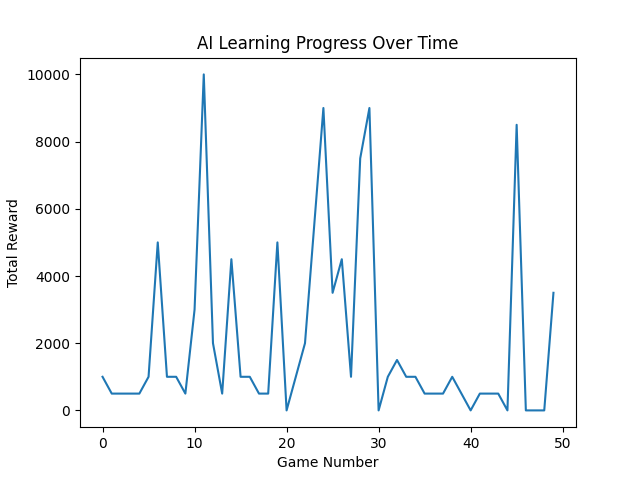
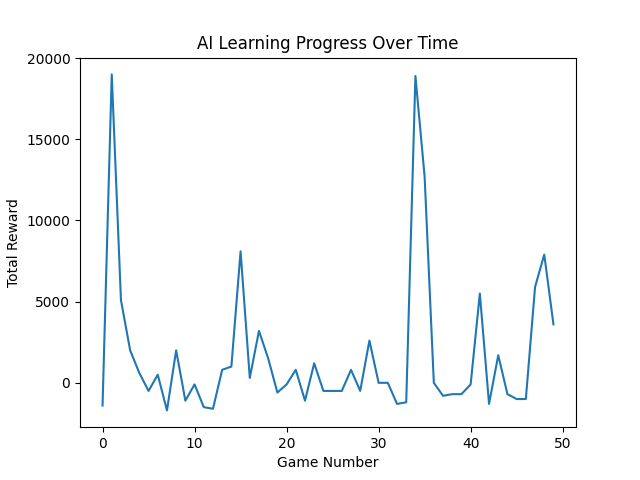
stage - base correcting

diff --git a/stage2 - precision.py b/stage2 - precision.py
@@ -17,16 +17,16 @@ pygame.display.set_caption("CQB AI Game")
 # Color definitions
 WHITE = (255, 255, 255)
 PLAYER_COLOR = (0, 0, 255)
-BULLET_COLOR = (255, 255, 0)
+BULLET_COLOR = (128, 0, 128)
 ENEMY_COLOR = (255, 0, 0)
 WALL_COLOR = (50, 50, 50)
 
 # Q-learning settings
-MODEL_FILE = './models/base_stage1.pkl'
+MODEL_FILE = './models/base_learn.pkl'
 ACTION_SPACE = ['rotate_left', 'rotate_right', 'shoot']
-ALPHA = 0.1  # Learning rate
+ALPHA = 0.4  # Learning rate
 GAMMA = 0.9  # Discount factor
-EPSILON = 0.1  # Exploration rate
+EPSILON = 0.4  # Exploration rate
 
 # Load or initialize Q-table
 try:
@@ -74,12 +74,12 @@ class Player:
         self.draw(screen)
 
     def ai_move(self, walls, enemy):
-        angle_to_enemy = abs(self.angle_to_enemy(enemy))
-        if self.is_enemy_in_view(enemy):
-            self.reward += max(0, 3 - angle_to_enemy)  # Reward increases as angle decreases, maximum when perfectly aligned
         current_state = self.extract_state(enemy)
         action = self.choose_action(current_state)
         self.perform_action(action)
+        angle_to_enemy = abs(self.angle_to_enemy(enemy))
+        if self.is_enemy_in_view(enemy):
+            self.reward += max(0, 3 - angle_to_enemy)
 
         # Update Q-table
         if self.previous_state is not None and self.previous_action is not None:
@@ -143,16 +143,19 @@ class Player:
             bullet.move()
             if bullet.is_off_screen():
                 self.bullets.remove(bullet)
+                if self.is_ai:
+                    self.reward -= 100  # Penalty for shooting and missing
             else:
                 for wall in walls:
                     if bullet.rect.colliderect(wall):
                         self.bullets.remove(bullet)
+                        if self.is_ai:
+                            self.reward -= 100  # Penalty for hitting a wall
                         break
                 if bullet in self.bullets and bullet.rect.colliderect(enemy.rect):
                     self.bullets.remove(bullet)
                     if self.is_ai:
-                        self.reward += round(500)  # Large reward for successfully hitting the enemy
-
+                        self.reward += 1000  # Large reward for successfully hitting the enemy
 
     def draw(self, surface):
         # Draw the viewing area
@@ -173,7 +176,7 @@ class Player:
         pygame.draw.line(surface, (255, 0, 0), self.rect.center, (laser_end_x, laser_end_y), 1)
         if pygame.Rect(laser_end_x, laser_end_y, 1, 1).colliderect(enemy.rect):
             if self.is_ai:
-                self.reward += 100  # Bonus for directly targeting the enemy
+                self.reward += 150  # Bonus for directly targeting the enemy
         pygame.draw.rect(surface, self.color, self.rect)
         for bullet in self.bullets:
             bullet.draw(surface)
